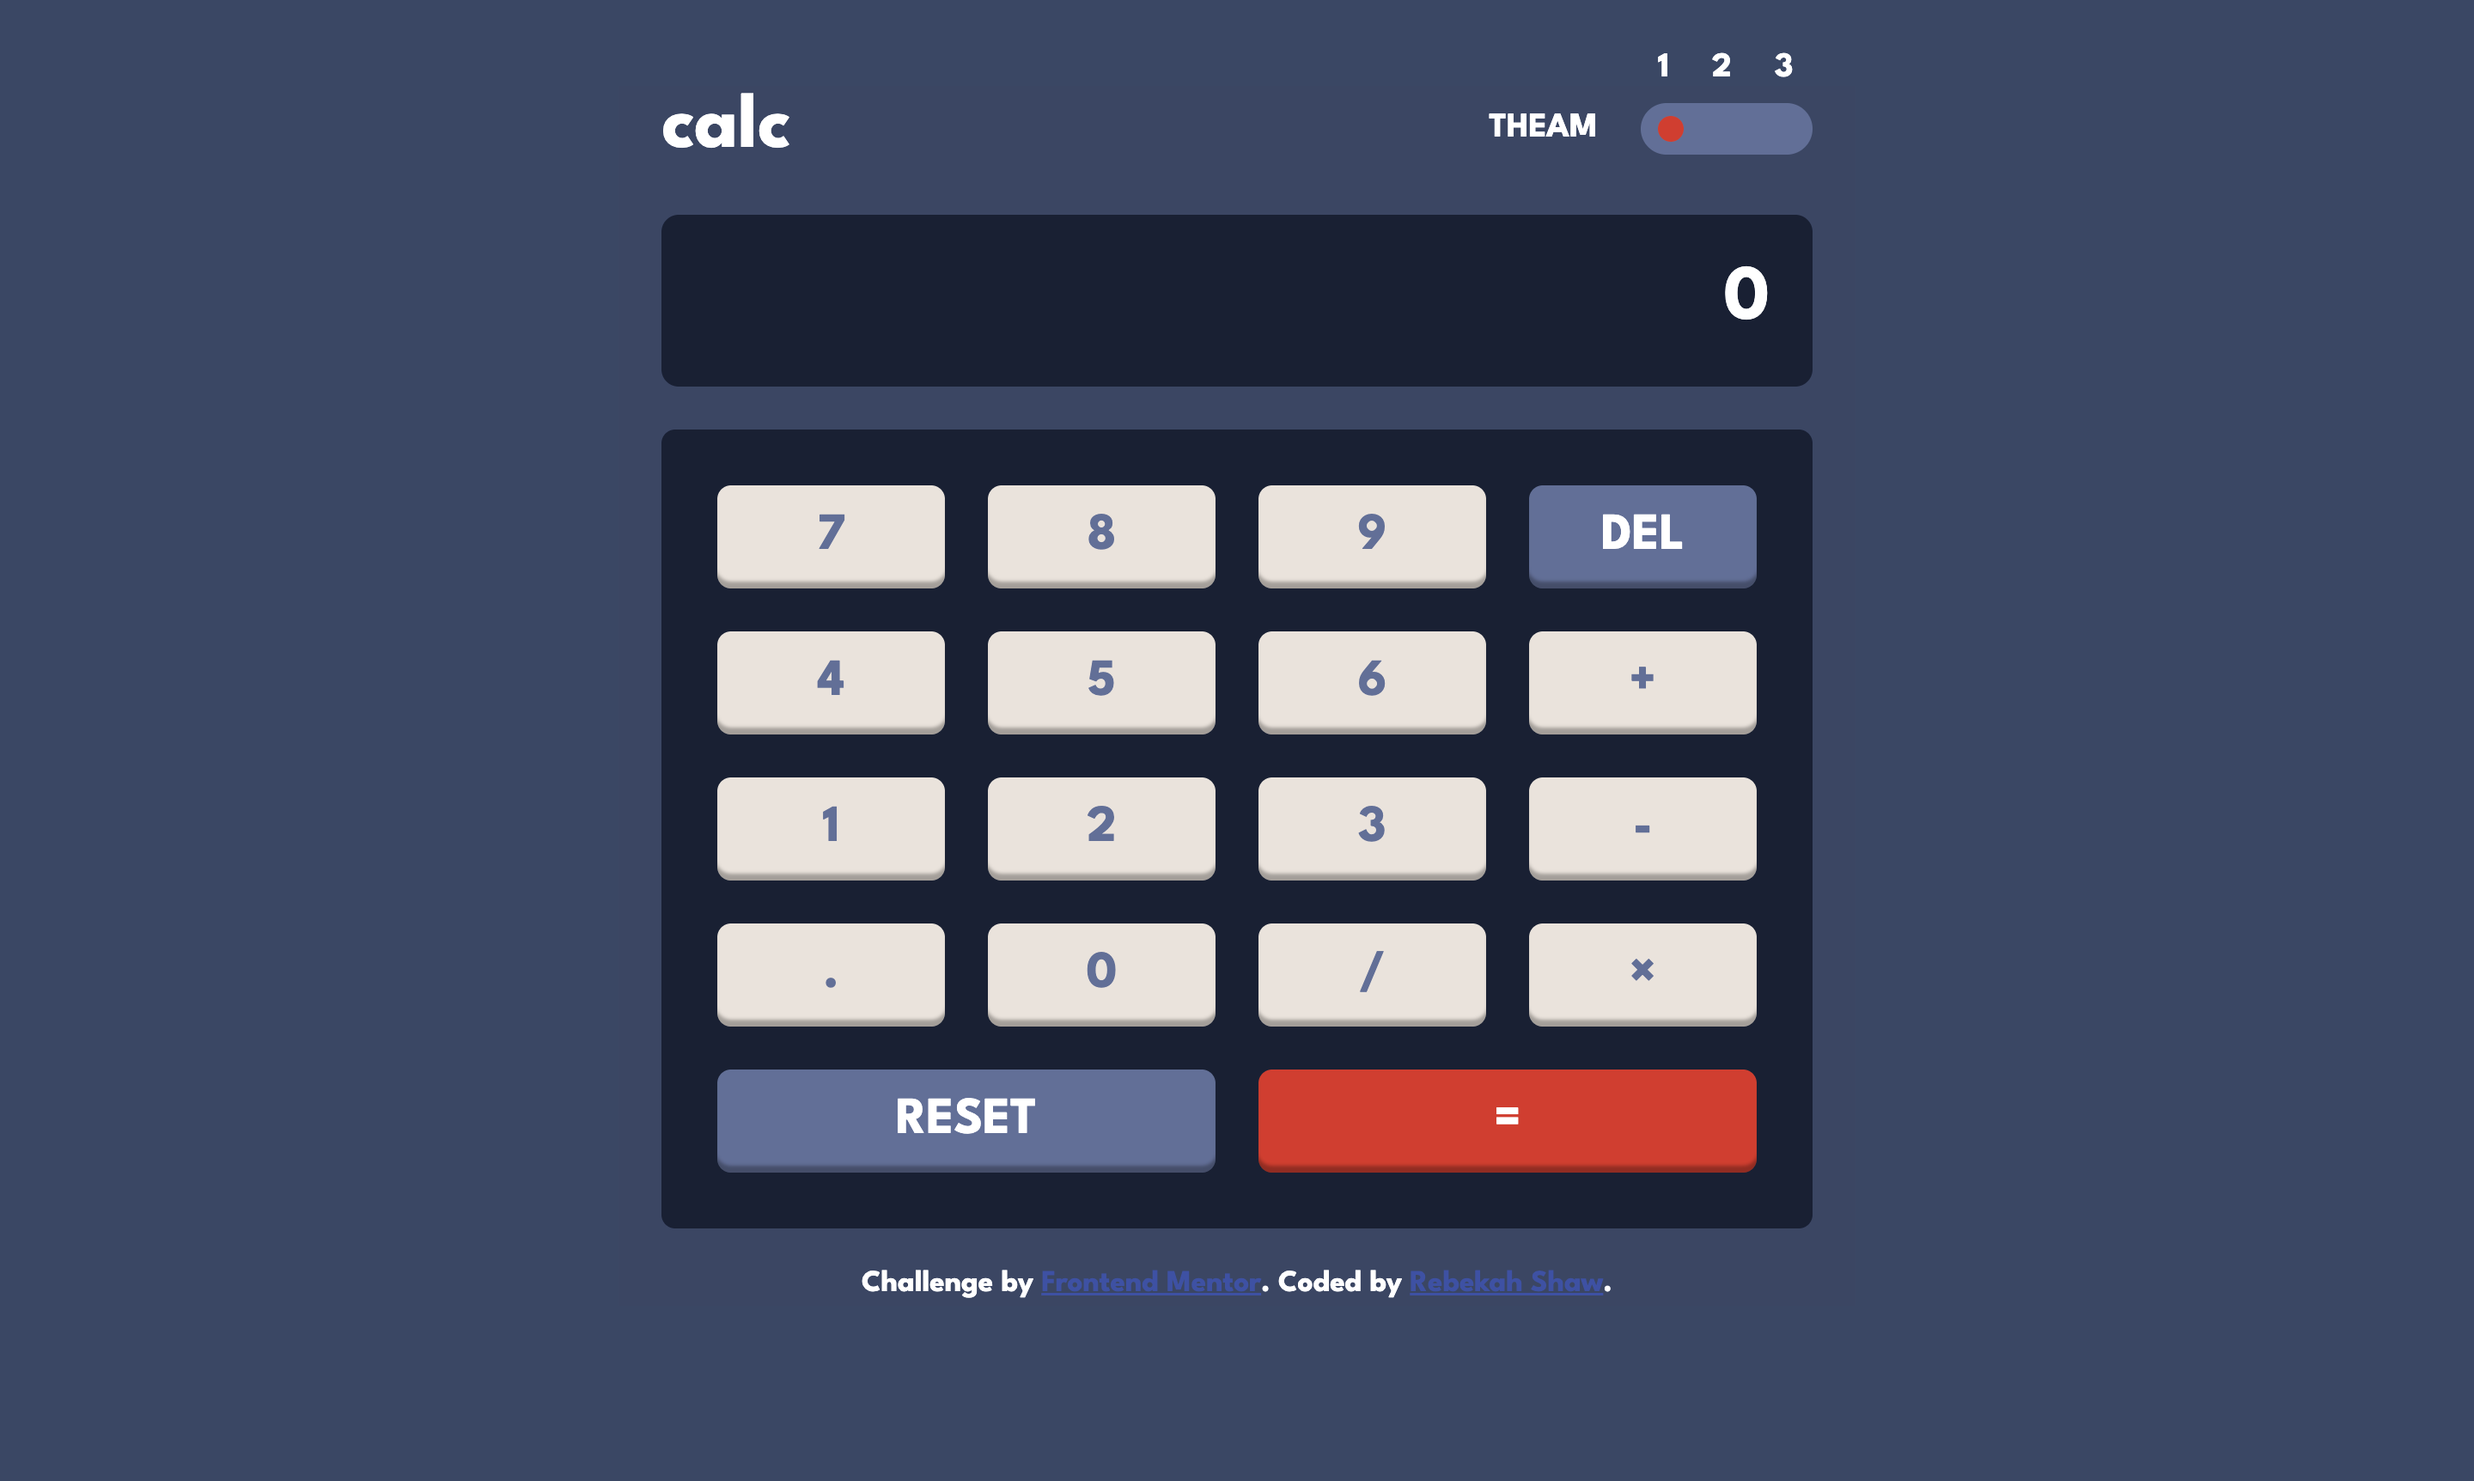
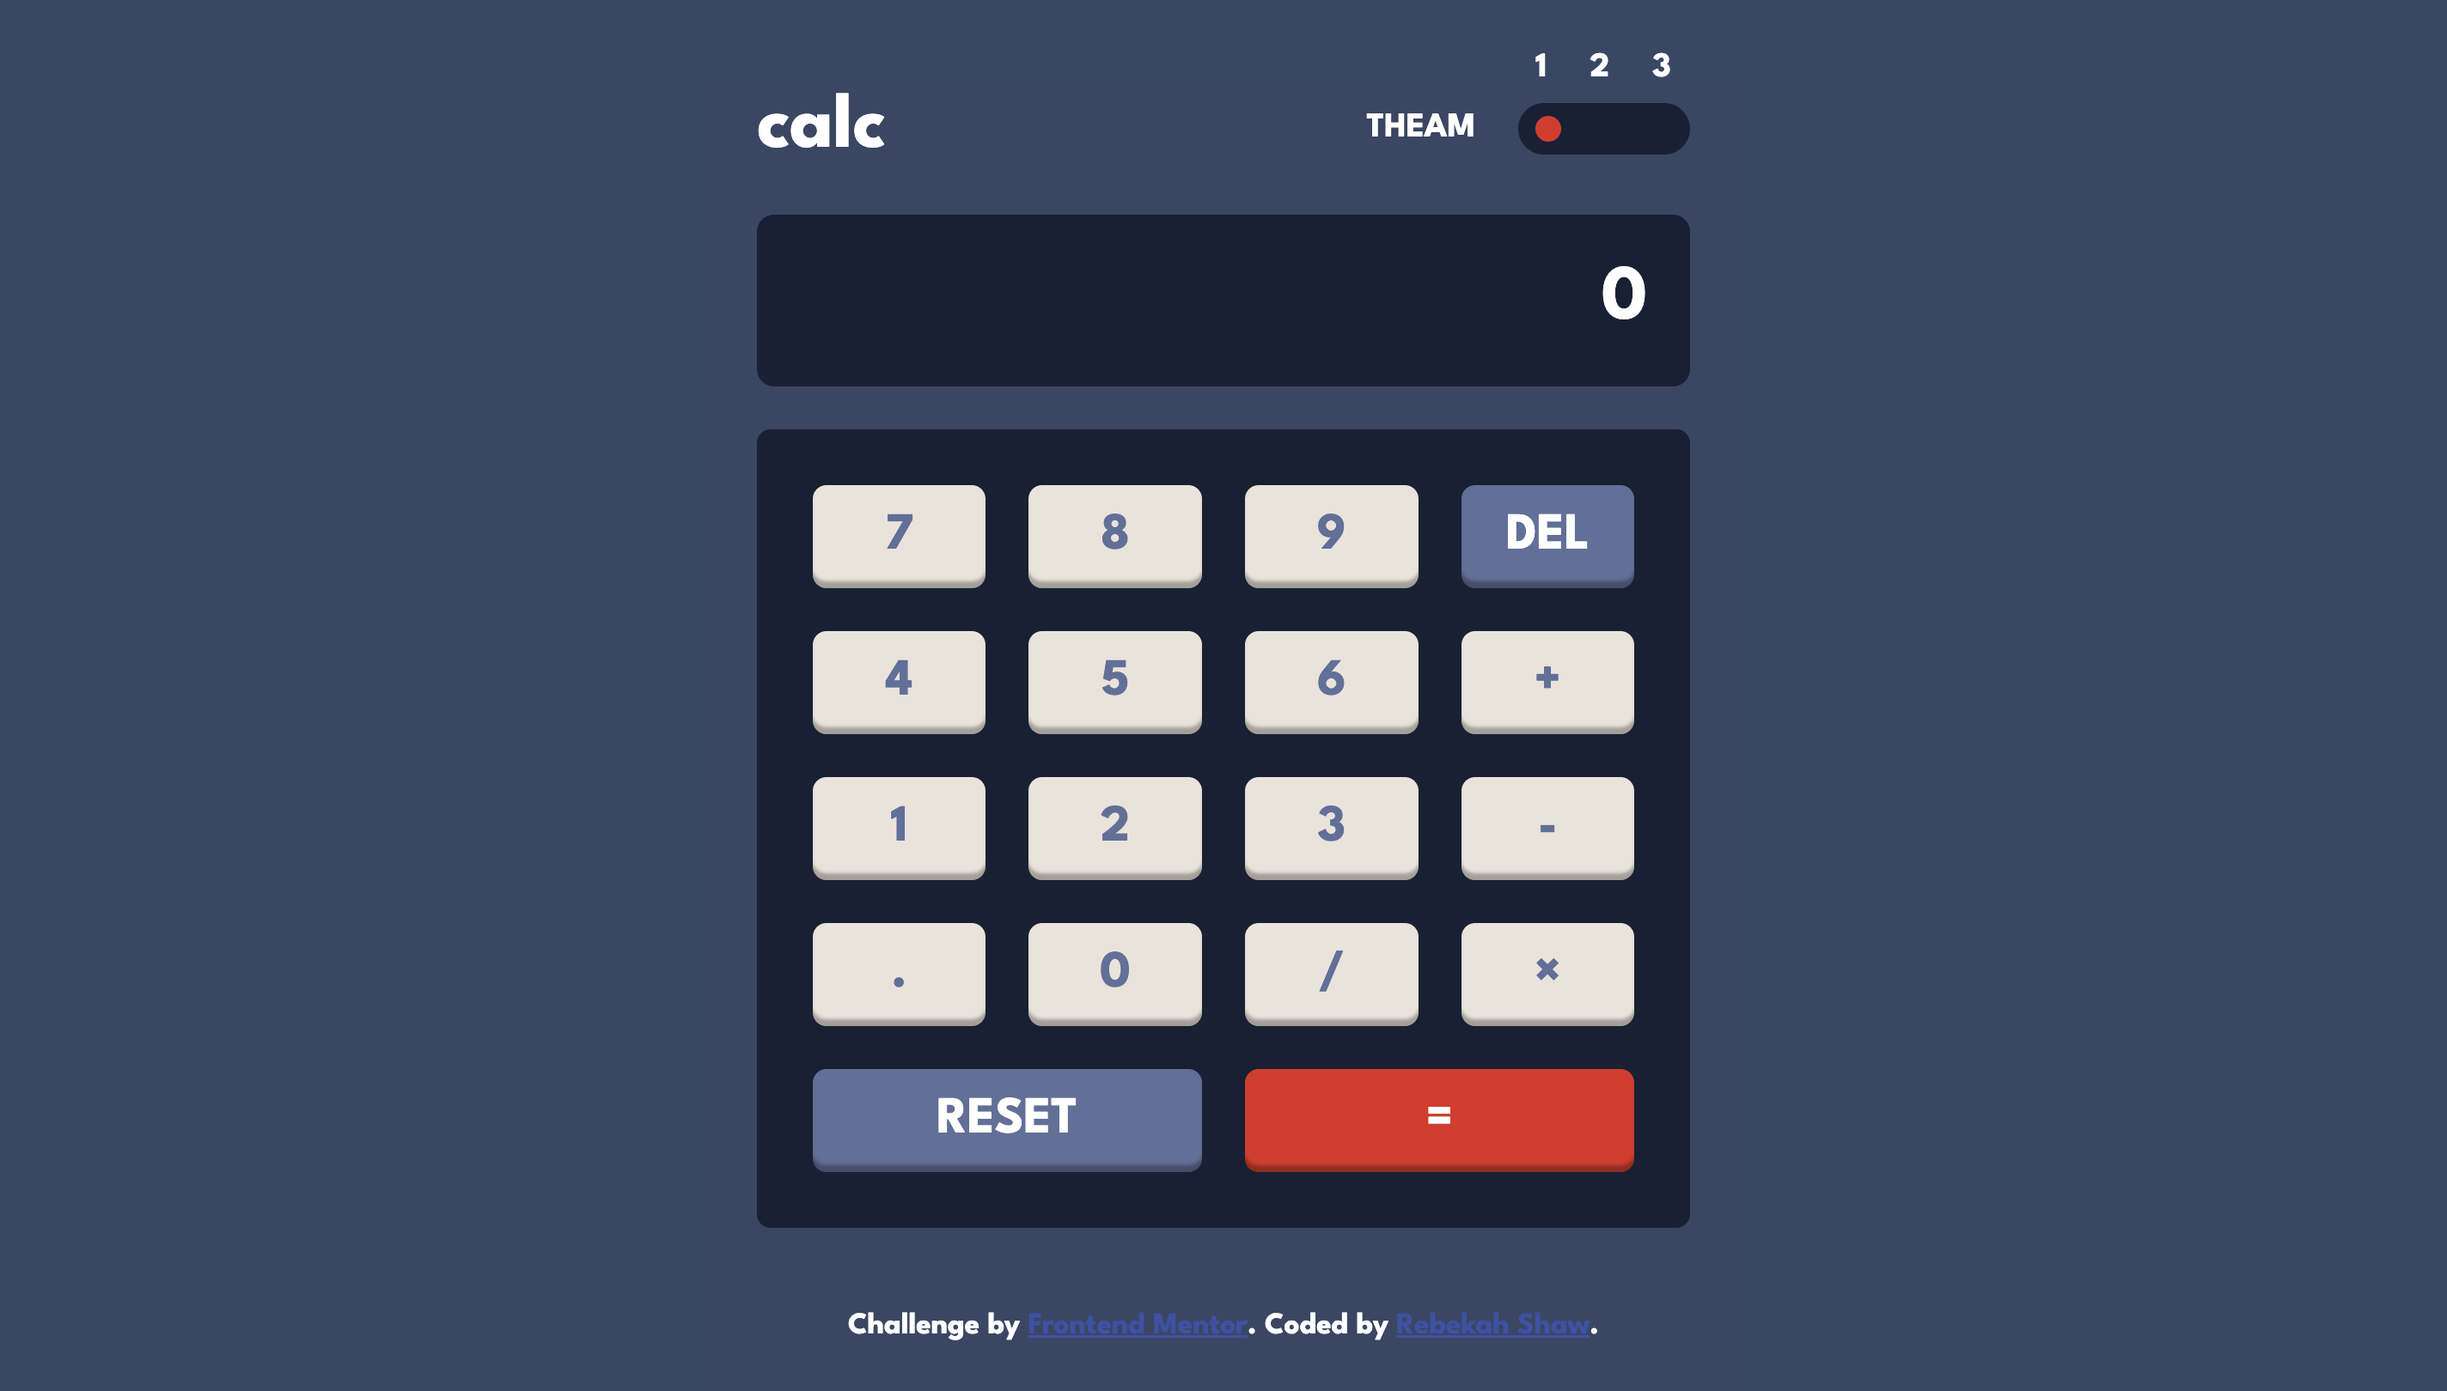
Updated screenshots

Changed region(s): [[0.25, 0.0309, 0.75, 0.8951], [0.3438, 0.9259, 0.6562, 0.9877]]

diff --git a/src/components/footer/index.tsx b/src/components/footer/index.tsx
@@ -1,8 +1,9 @@
-import { Fragment, JSX } from "react";
+import { JSX } from "react";
 import Link from "next/link";
+
 export default function Footer(): JSX.Element {
     return (
-      <div className="attribution text-center text-[12px] lg:text-sm mt-4 text-white">
+      <div className="attribution text-center text-[12px] py-5 lg:text-sm mt-4 text-white">
         Challenge by{' '}
         <Link
           href="https://www.frontendmentor.io?ref=challenge"

diff --git a/src/pages/index.tsx b/src/pages/index.tsx
@@ -27,7 +27,7 @@ export default function Home() {
 
 
   return (
-    <div className={`body w-full lg:w-1/2 md:w-9/12 md:mx-auto ${theme}`}>
+    <div className={`body w-full lg:w-5/12 md:w-7/12 md:mx-auto ${theme}`}>
       <div className="header flex items-center justify-between mt-[50px]">
         <div>
           <h1 className="title text-2xl lg:text-4xl mx-5">calc</h1>
